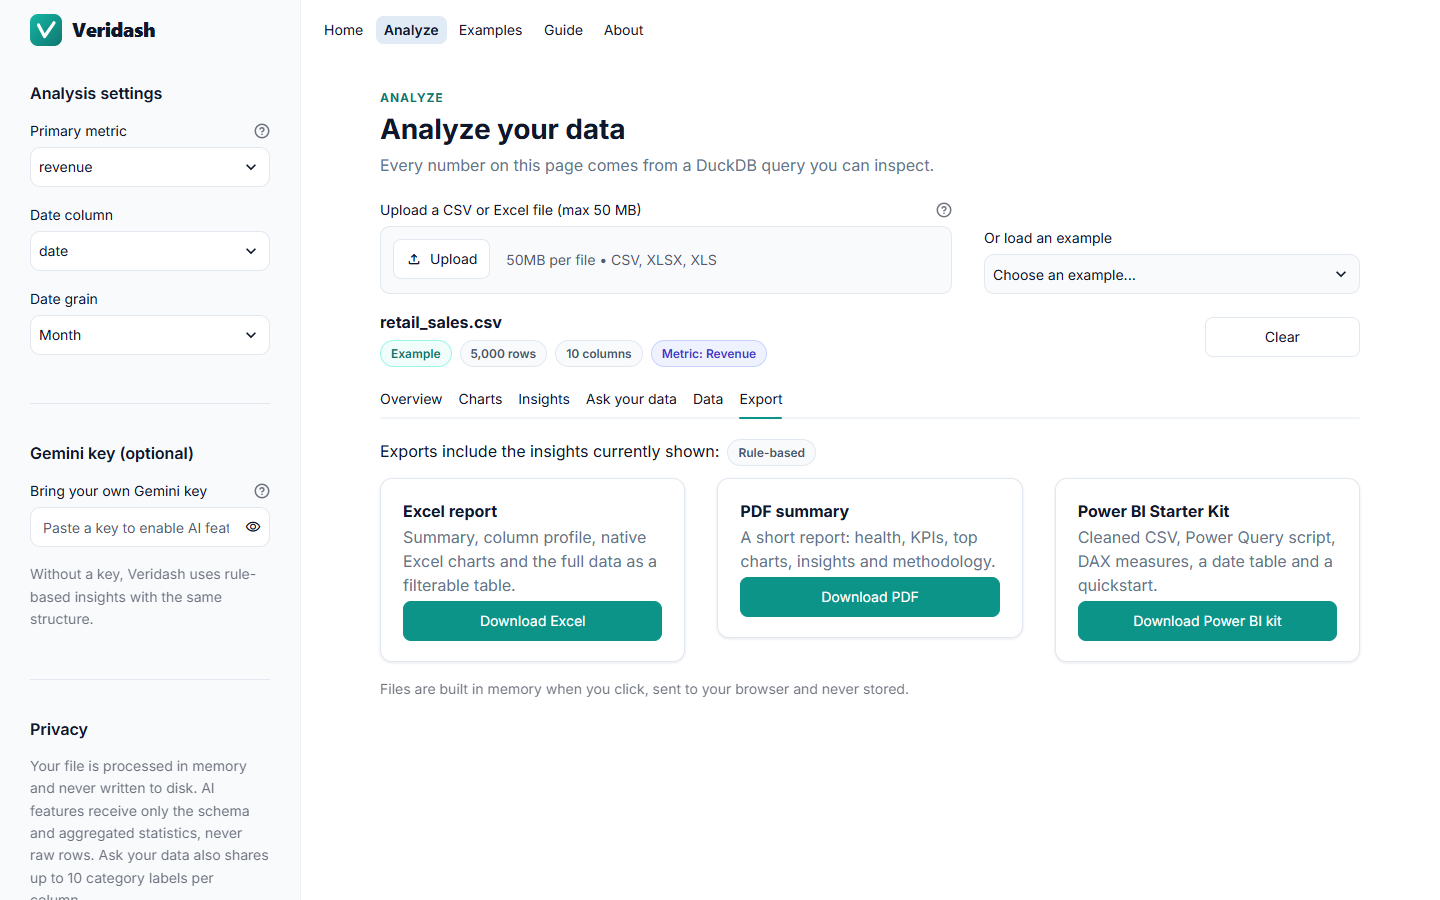
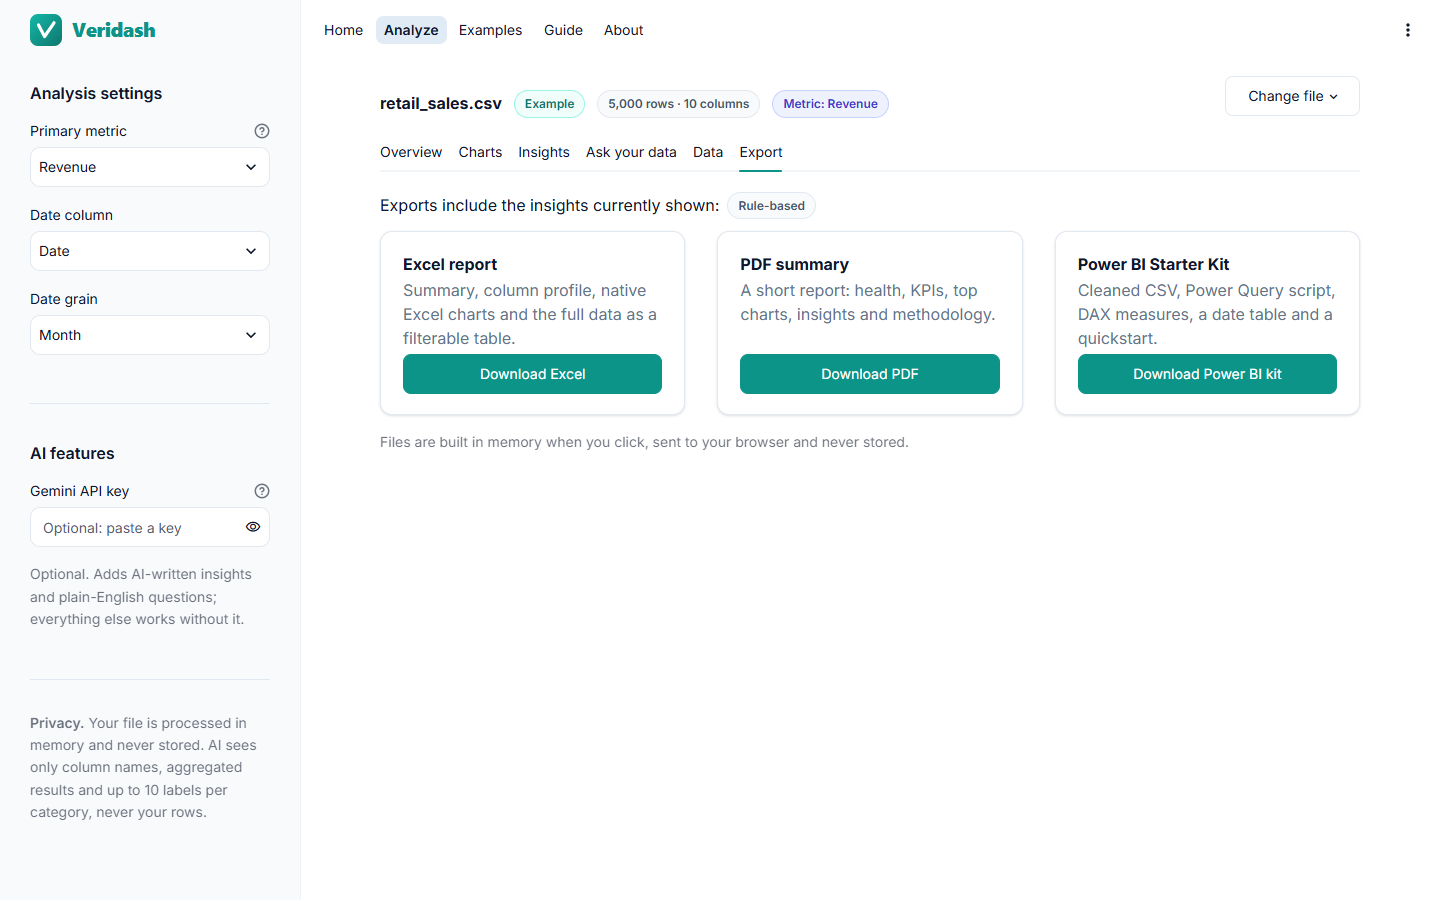
docs: document dark mode and refresh screenshots for the new interface
Adds a dark mode FAQ to the Guide, a light/dark bullet to the README
features, the theme sections to the setup guide's settings table, the
current test count, and new screenshots of the redesigned pages.

diff --git a/views/guide.py b/views/guide.py
@@ -178,6 +178,9 @@ faqs = [
      "Fewer than 90% of its values could be read as numbers. Clean the stray values or check for unusual formats."),
     ("Can I change the metric or date grain?",
      "Yes. Use the sidebar on the Analyze page. Charts, KPIs, insights and exports update together."),
+    ("Is there a dark mode?",
+     "Yes. Veridash follows your device's light or dark setting automatically. To switch, open the menu "
+     "in the top-right corner, choose Settings and pick a theme."),
     ("Where does my file go after I close the tab?",
      "Your session's memory is released, and cached results expire from server memory within an hour."),
 ]

diff --git a/README.md b/README.md
@@ -69,6 +69,7 @@ exports for Excel, PDF and Power BI. It is built on three pillars:
 - **One-sentence insights:** each chart states what it shows, using numbers from its own query.
 - **"How this was calculated":** every chart and KPI shows the exact SQL that ran and the table it returned.
 - **Adjustable:** the primary metric, date column and date grain can be changed at any time.
+- **Light and dark mode:** the app follows the visitor's system setting, with color-blind-safe chart palettes validated for both.
 
 ### AI insights with fact-checking
 - **Structured output:** an executive summary, key findings, recommendations framed as hypotheses with evidence
@@ -196,7 +197,7 @@ flowchart LR
 | Exports | The Excel file opens with all sheets, the PDF has two to four pages, the Power BI kit has every file |
 | App | Every page renders, all three examples run end to end without a key, and edge-case files do not break |
 
-All 197 automated tests pass, and the codebase is lint-clean under Ruff.
+All 201 automated tests pass, and the codebase is lint-clean under Ruff.
 
 ## Roadmap
 

diff --git a/docs/SETUP.md b/docs/SETUP.md
@@ -89,7 +89,7 @@ switch (for example to `gemini-3.8-flash` or `gemini-3.5-flash-lite`).
 
 | Setting | Where | Default |
 |---|---|---|
-| Theme colors and font | `.streamlit/config.toml` | Teal on white, Inter |
+| Theme colors and font | `.streamlit/config.toml` (`[theme.light]`, `[theme.dark]`) and `ui/theme.py` | Teal accent, Inter, light and dark |
 | Upload size limit | `.streamlit/config.toml` (`maxUploadSize`) and `core/settings.py` (`MAX_FILE_MB`) | 50 MB |
 | Row and column limits, sampling threshold, query timeout | `core/settings.py` | 1,000,000 rows, 300 columns, 200,000 rows, 10 s |
 | AI calls per session | `core/settings.py` (`MAX_AI_CALLS_PER_SESSION`) | 10 |
